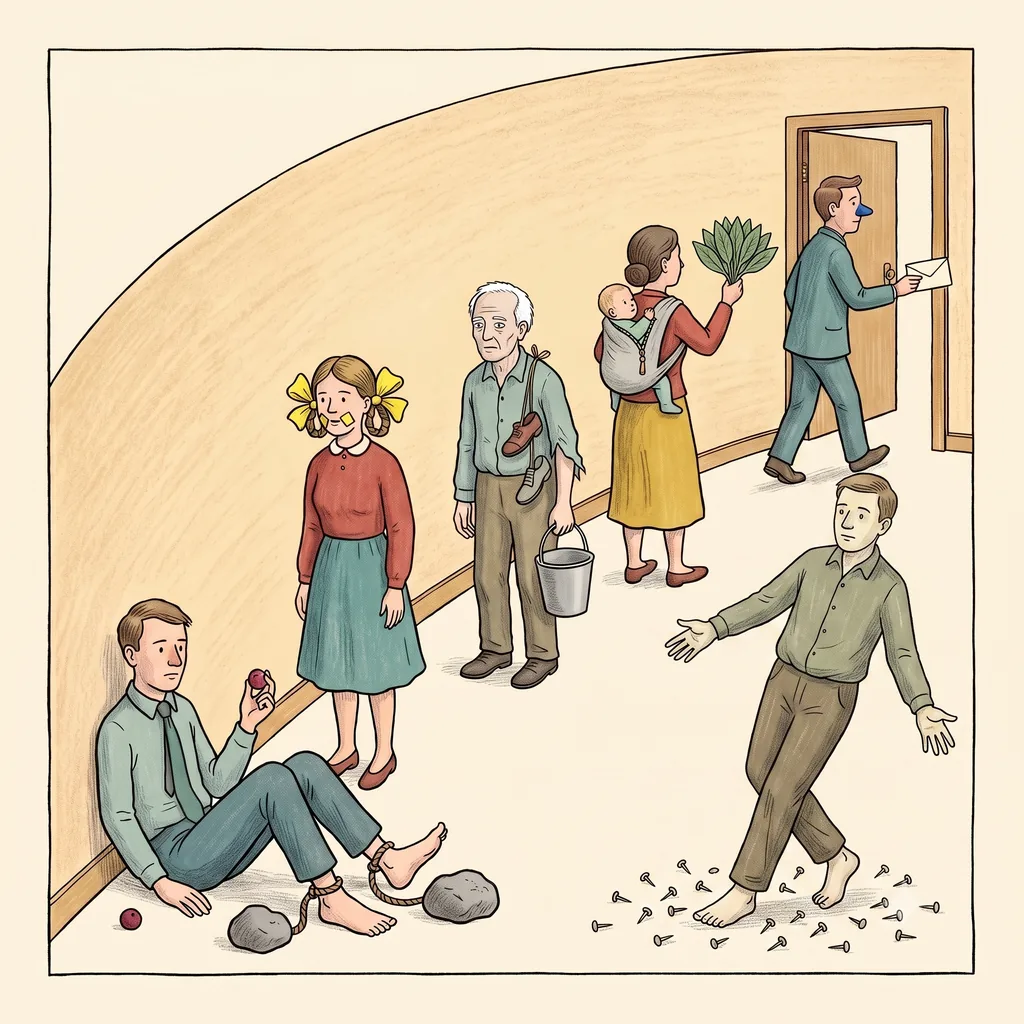
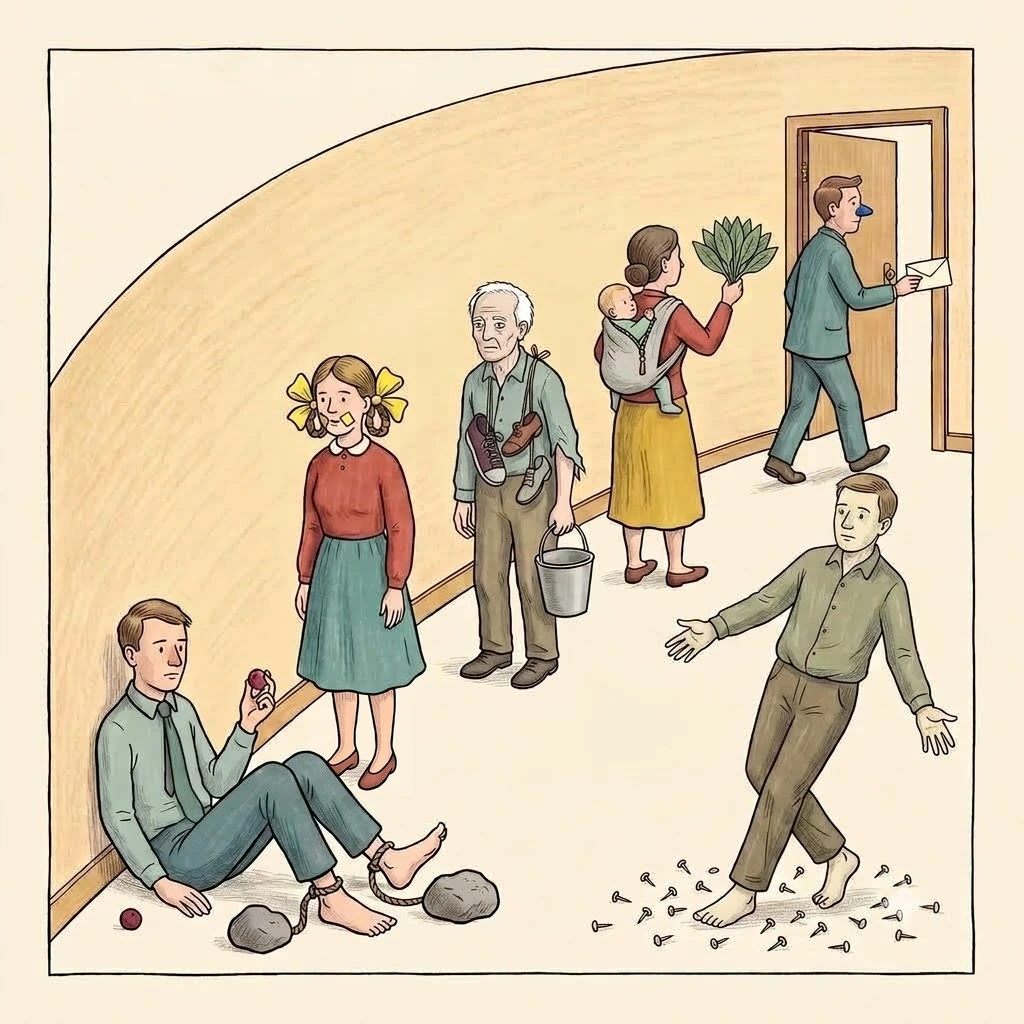
대기열 32 — s12p04 나이아신 B3: 흰머리 노인 목끈의 신발 둘 → 셋(나이 든 사람의 신발 셋)
제미나이 1라운드(s12p04_신발셋_v2 — 현재 그림(여섯째 B12 사람 있음) · 잎·리본·노란 조각·열매·돌·압정 수를 「지금과 같게」 못박음). 부작용: 노란 리본 소녀의 빨간 구두를 벗겨 맨발 — 이 판에서 맨발은 B12 결핍(압정을 밟고도 태연)만의 표지라 흐려짐 → 손 보정(tools/retouch/s12p04_girl_shoes.py: 치마 밑단 아래를 설치본에서 옮겨 붙임 · 어긋남 0). 잎 다발 모양 대조 같음.

Claude-Session: https://claude.ai/code/session_01WoYBm6rvmofApXiAiUhif2

diff --git a/tools/retouch/s12p04_girl_shoes.py b/tools/retouch/s12p04_girl_shoes.py
@@ -1,0 +1,20 @@
+#!/usr/bin/env python3
+"""s12p04 — 제미나이 v2(노인 목 신발 둘 → 셋)가 노란 리본 소녀의 빨간 구두를 벗겨 맨발로 만들었다.
+맨발은 이 판에서 B12 결핍 사람(압정을 밟고도 태연)만의 표지라 소녀가 맨발이면 흐려진다.
+두 그림은 소녀 치마·다리 둘레에서 어긋남 0 → 설치돼 있던 그림에서 치마 밑단 아래(다리·구두) 직사각형을 옮겨 붙인다.
+사용: python3 tools/retouch/s12p04_girl_shoes.py <현재_설치본.png> <제미나이_v2.png> <출력.png>"""
+import sys
+import numpy as np
+from PIL import Image
+
+src, dst, out = sys.argv[1], sys.argv[2], sys.argv[3]
+a = np.asarray(Image.open(src).convert('RGB').resize((1024, 1024), Image.LANCZOS), dtype=float)
+b = np.asarray(Image.open(dst).convert('RGB').resize((1024, 1024), Image.LANCZOS), dtype=float)
+X0, X1, Y0, Y1, F = 305, 415, 684, 797, 5
+yy, xx = np.mgrid[0:1024, 0:1024]
+wx = np.clip(np.minimum(xx - X0, X1 - xx) / F, 0, 1)
+wy = np.clip(np.minimum(yy - Y0, Y1 - yy) / F, 0, 1)
+w = (wx * wy)[..., None]
+res = a * w + b * (1 - w)
+Image.fromarray(res.round().clip(0, 255).astype(np.uint8)).save(out)
+print('saved', out)

diff --git a/tools/retouch/README.md b/tools/retouch/README.md
@@ -21,3 +21,4 @@
 | s06p02 | `s06p02_walnut_to_box2.py` — 2라운드(v4: 상자 넷 ✓, 호두 사라짐) 위에 1라운드(v3)의 호두를 타원 가면으로 떼어 0.75배로 둘째 상자 바닥(셋째 상자 곁, (380..418,430..461))에 붙임 — 핵형질체 자리 = 바깥 두 막과 안쪽 두 막 사이 | s06p02_v3_1790671216742.png + s06p02_v4_1790671375197.png |
 | s19p02c | `s19p02c_die_three.py` — p53 판 「점 다섯·점 셋」의 오른쪽 판이 원본부터 점 둘(52 로 읽힘) → 두 빗장 모두 같은 빗장 점 다섯 판의 가운데 점을 (반지름 3.2 원 안 어두운 화소만) 떼어 두 점 한가운데에 붙여 주사위 3 | s19p02c_v1_1790671833686.png (제미나이: 두 빗장 모두 p53 판 · 루비 지움) |
 | s19p01 | `s19p01_shoulder_stamp.py` — 제미나이 v3 가 아래 왼쪽 덩치 어깨의 붉은 도장 자국까지 지움(「그대로」라고 적었는데도) → 설치돼 있던 그림에서 자국 둘레 원(중심 118,708 · r21 · 섞음 3px) 옮겨 붙임 · 어긋남 0 확인 | s19p01_v3_1790681288333.png |
+| s12p04 | `s12p04_girl_shoes.py` — 제미나이 v2(노인 목 신발 둘 → 셋)가 노란 리본 소녀의 빨간 구두를 벗겨 맨발로 만듦(맨발은 이 판에서 B12 결핍 사람만의 표지) → 치마 밑단 아래 직사각형(305..415 × 684..797, 섞음 5px)을 설치본에서 옮겨 붙임 · 어긋남 0 | s12p04_v2_1790683454985.png |

diff --git a/tools/vision/logic_0929.md b/tools/vision/logic_0929.md
@@ -98,7 +98,7 @@
 | 판 | 행 | 그림 | 왜 | 등급 | 고칠 길 | 확인 |
 |---|---|---|---|---|---|---|
 | s19p02c | 1–3 | 한 문의 빗장 둘(= 대립유전자 둘)에 위는 p53 주사위, 아래는 Rb 루비 | 두 번 타격 = **같은 유전자**의 두 대립유전자 — p53 한 번 + Rb 한 번이 아니다 | F | 그림: 두 빗장에 같은 표지, Rb 는 다른 문 | ✔ 그림 1라운드 + 손 보정(판 점 셋) · 2·3행·요약 |
-| s12p04 | 3 | 노인 목 신발 **둘** | B3 = 셋(대기열 32 에 프롬프트) | M | 그림 | |
+| s12p04 | 3 | 노인 목 신발 **둘** | B3 = 셋(대기열 32 에 프롬프트) | M | 그림 | ✔ 대기열 32 — 신발 셋 · 소녀 맨발은 손 보정으로 되돌림 |
 | s13p03 | 3·5 | CD8·CD4 조끼 사람·NK 궁수에 MHC I 배지 없음 | 유핵세포 전부에 MHC I — 배지 없음 = 표적(missing self)으로 읽힘 | M | 그림 | |
 | s13p03 | 4 | CD4 가 **스스로** MHC II 판을 들고 있음 | MHC II 는 APC 에만 — APC 가 CD4 에게 보여 줘야 | M | 그림 | |
 | s14p01 | 7 | 목 조이기(다이나민)가 소포체 문 자루에 · 클라트린 수레엔 없음 | 다이나민은 클라트린 소포(내포작용·TGN) | M | 그림 | |

diff --git a/tools/prompts/QUEUE_0928.md b/tools/prompts/QUEUE_0928.md
@@ -82,7 +82,7 @@
 | ~~29~~ ✔ | s45p01 | s45p01_방패를같은토막에_v5(v2·v2+1·v3·v4 버림 — 방패 뒷면/민 원판/다른 토막) | 현재 그림 | F1 NADPH 환원 + M 같은 3-PGA | 4 |
 | ~~30~~ ✔ | s24p02 | s24p02_뒤언덕_두손_v4 + 같은 대화 한 번 더(뒷짐) — v2·v3(문 줄을 언덕 위로 · 손가락을 축으로) 버림 | 현재 그림 | 음차 힐 + m 검사관이 Km 접시만 | 3 |
 | ~~31~~ ✔ | s07p02 | s07p02_달걀둘_간장병_v3(달걀 둘 + F2 간장병 · 빨간 뚜껑 + 종지) | 현재 그림 | F1 FSH·LH + F2 간 | 3+5 |
-| 32 | s12p04 | s12p04_신발셋_v1 | _orig_s12p04 | F1 B3 | 3 |
+| ~~32~~ ✔ | s12p04 | s12p04_신발셋_v2(현재 그림 · 세는 것 못박음) + 손 보정(소녀 구두) | 현재 그림 | F1 B3 | 3 |
 | 33 | s33p02 | s33p02_오각고리사슬_v1 | _orig_s33p02 | F1 리보스 오각 | 3 |
 | 34 | s34p04 | s34p04_두겹가죽_v1 | _orig_s34p04 | F1 종피 두 겹 | 3 |
 | 35 | s45p04 | s45p04_양산이센빛을_v1 | _orig_s45p04 | F1 광보호 | 3 |
